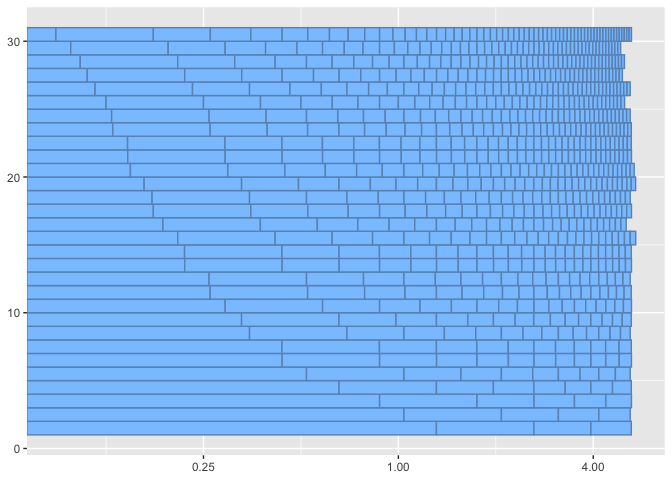
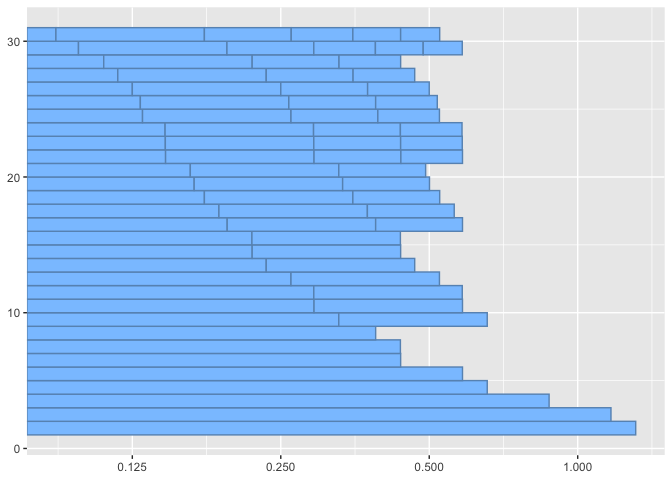
plots in period and wavelength look good

diff --git a/man/thoughts/Ratios_and_Inversions.md b/man/thoughts/Ratios_and_Inversions.md
@@ -3,13 +3,13 @@ Period and Wavelength Relative Periodicity
 
 # Chord Cycle Estimates
 
-\[1\] 60 64 67
+\[1\] 60 62 67
 
 ## Spatial
 
-| tol_l |    min_l | lcd_l |  chord_l |   chord_T |
-|------:|---------:|------:|---------:|----------:|
-|   0.1 | 0.087501 |    60 | 5.250061 | 0.2293354 |
+| tol_l |    min_l | lcd_l |   chord_l |   chord_T |
+|------:|---------:|------:|----------:|----------:|
+|  0.15 | 0.087501 |     6 | 0.5250061 | 0.0015306 |
 
 ![](Ratios_and_Inversions_files/figure-gfm/unnamed-chunk-4-1.png)<!-- -->
 
@@ -18,41 +18,41 @@ Period and Wavelength Relative Periodicity
 | index | num | den |     ratio |      tone | reference_tone |
 |------:|----:|----:|----------:|----------:|---------------:|
 |    30 |   1 |   1 |  1.000000 | 0.0875010 |       0.087501 |
-|    29 |   6 |   5 |  1.111111 | 0.0972234 |       0.087501 |
-|    28 |   5 |   4 |  1.189207 | 0.1040568 |       0.087501 |
-|    27 |   4 |   3 |  1.250000 | 0.1093763 |       0.087501 |
-|    26 |   4 |   3 |  1.321341 | 0.1156187 |       0.087501 |
-|    25 |   3 |   2 |  1.428571 | 0.1250015 |       0.087501 |
-|    24 |   3 |   2 |  1.486509 | 0.1300710 |       0.087501 |
-|    23 |   3 |   2 |  1.498307 | 0.1311034 |       0.087501 |
-|    22 |   5 |   3 |  1.664786 | 0.1456704 |       0.087501 |
-|    21 |   5 |   3 |  1.666667 | 0.1458350 |       0.087501 |
-|    20 |   5 |   3 |  1.698867 | 0.1486526 |       0.087501 |
-|    19 |   9 |   5 |  1.872884 | 0.1638792 |       0.087501 |
-|    18 |   2 |   1 |  1.982012 | 0.1734281 |       0.087501 |
-|    17 |   2 |   1 |  2.000000 | 0.1750020 |       0.087501 |
-|    16 |  11 |   5 |  2.140439 | 0.1872906 |       0.087501 |
-|    15 |   7 |   3 |  2.378414 | 0.2081137 |       0.087501 |
-|    14 |   5 |   2 |  2.497178 | 0.2185057 |       0.087501 |
-|    13 |   5 |   2 |  2.500000 | 0.2187525 |       0.087501 |
-|    12 |   3 |   1 |  2.973018 | 0.2601421 |       0.087501 |
-|    11 |   3 |   1 |  2.996614 | 0.2622068 |       0.087501 |
-|    10 |  10 |   3 |  3.333333 | 0.2916701 |       0.087501 |
+|    29 |   1 |   1 |  1.111111 | 0.0972234 |       0.087501 |
+|    28 |   4 |   3 |  1.250000 | 0.1093763 |       0.087501 |
+|    27 |   4 |   3 |  1.334840 | 0.1167998 |       0.087501 |
+|    26 |   3 |   2 |  1.428571 | 0.1250015 |       0.087501 |
+|    25 |   3 |   2 |  1.483155 | 0.1297776 |       0.087501 |
+|    24 |   3 |   2 |  1.498307 | 0.1311034 |       0.087501 |
+|    23 |   5 |   3 |  1.664786 | 0.1456704 |       0.087501 |
+|    22 |   5 |   3 |  1.666667 | 0.1458350 |       0.087501 |
+|    21 |   5 |   3 |  1.668550 | 0.1459998 |       0.087501 |
+|    20 |   2 |   1 |  1.872884 | 0.1638792 |       0.087501 |
+|    19 |   2 |   1 |  1.906914 | 0.1668569 |       0.087501 |
+|    18 |   2 |   1 |  2.000000 | 0.1750020 |       0.087501 |
+|    17 |   2 |   1 |  2.140439 | 0.1872906 |       0.087501 |
+|    16 |   7 |   3 |  2.224733 | 0.1946664 |       0.087501 |
+|    15 |   5 |   2 |  2.497178 | 0.2185057 |       0.087501 |
+|    14 |   5 |   2 |  2.500000 | 0.2187525 |       0.087501 |
+|    13 |   8 |   3 |  2.669680 | 0.2335997 |       0.087501 |
+|    12 |   3 |   1 |  2.996614 | 0.2622068 |       0.087501 |
+|    11 |  10 |   3 |  3.333333 | 0.2916701 |       0.087501 |
+|    10 |  10 |   3 |  3.337100 | 0.2919996 |       0.087501 |
 |     9 |  11 |   3 |  3.745768 | 0.3277585 |       0.087501 |
-|     8 |   4 |   1 |  3.964024 | 0.3468561 |       0.087501 |
+|     8 |   9 |   2 |  4.449466 | 0.3893328 |       0.087501 |
 |     7 |   5 |   1 |  4.994357 | 0.4370113 |       0.087501 |
 |     6 |   5 |   1 |  5.000000 | 0.4375051 |       0.087501 |
-|     5 |   6 |   1 |  5.946035 | 0.5202842 |       0.087501 |
+|     5 |  20 |   3 |  6.674199 | 0.5839992 |       0.087501 |
 |     4 |  15 |   2 |  7.491535 | 0.6555170 |       0.087501 |
 |     3 |  10 |   1 | 10.000000 | 0.8750102 |       0.087501 |
-|     2 |  59 |   5 | 11.892071 | 1.0405683 |       0.087501 |
+|     2 |  40 |   3 | 13.348398 | 1.1679985 |       0.087501 |
 |     1 |  15 |   1 | 14.983071 | 1.3110340 |       0.087501 |
 
 ## Temporal
 
 | tol_T |     min_T | lcd_T |   chord_T |
 |------:|----------:|------:|----------:|
-|   0.1 | 0.0002551 |    60 | 0.0153063 |
+|  0.15 | 0.0002551 |     6 | 0.0015306 |
 
 ![](Ratios_and_Inversions_files/figure-gfm/unnamed-chunk-7-1.png)<!-- -->
 
@@ -61,34 +61,34 @@ Period and Wavelength Relative Periodicity
 | index | num | den |     ratio |      tone | reference_tone |
 |------:|----:|----:|----------:|----------:|---------------:|
 |    30 |   1 |   1 |  1.000000 | 0.0002551 |      0.0002551 |
-|    29 |   6 |   5 |  1.111111 | 0.0002835 |      0.0002551 |
-|    28 |   5 |   4 |  1.189207 | 0.0003034 |      0.0002551 |
-|    27 |   4 |   3 |  1.250000 | 0.0003189 |      0.0002551 |
-|    26 |   4 |   3 |  1.321341 | 0.0003371 |      0.0002551 |
-|    25 |   3 |   2 |  1.428571 | 0.0003644 |      0.0002551 |
-|    24 |   3 |   2 |  1.486509 | 0.0003792 |      0.0002551 |
-|    23 |   3 |   2 |  1.498307 | 0.0003822 |      0.0002551 |
-|    22 |   5 |   3 |  1.664786 | 0.0004247 |      0.0002551 |
-|    21 |   5 |   3 |  1.666667 | 0.0004252 |      0.0002551 |
-|    20 |   5 |   3 |  1.698867 | 0.0004334 |      0.0002551 |
-|    19 |   9 |   5 |  1.872884 | 0.0004778 |      0.0002551 |
-|    18 |   2 |   1 |  1.982012 | 0.0005056 |      0.0002551 |
-|    17 |   2 |   1 |  2.000000 | 0.0005102 |      0.0002551 |
-|    16 |  11 |   5 |  2.140439 | 0.0005460 |      0.0002551 |
-|    15 |   7 |   3 |  2.378414 | 0.0006067 |      0.0002551 |
-|    14 |   5 |   2 |  2.497178 | 0.0006370 |      0.0002551 |
-|    13 |   5 |   2 |  2.500000 | 0.0006378 |      0.0002551 |
-|    12 |   3 |   1 |  2.973018 | 0.0007584 |      0.0002551 |
-|    11 |   3 |   1 |  2.996614 | 0.0007645 |      0.0002551 |
-|    10 |  10 |   3 |  3.333333 | 0.0008504 |      0.0002551 |
+|    29 |   1 |   1 |  1.111111 | 0.0002835 |      0.0002551 |
+|    28 |   4 |   3 |  1.250000 | 0.0003189 |      0.0002551 |
+|    27 |   4 |   3 |  1.334840 | 0.0003405 |      0.0002551 |
+|    26 |   3 |   2 |  1.428571 | 0.0003644 |      0.0002551 |
+|    25 |   3 |   2 |  1.483155 | 0.0003784 |      0.0002551 |
+|    24 |   3 |   2 |  1.498307 | 0.0003822 |      0.0002551 |
+|    23 |   5 |   3 |  1.664786 | 0.0004247 |      0.0002551 |
+|    22 |   5 |   3 |  1.666667 | 0.0004252 |      0.0002551 |
+|    21 |   5 |   3 |  1.668550 | 0.0004257 |      0.0002551 |
+|    20 |   2 |   1 |  1.872884 | 0.0004778 |      0.0002551 |
+|    19 |   2 |   1 |  1.906914 | 0.0004865 |      0.0002551 |
+|    18 |   2 |   1 |  2.000000 | 0.0005102 |      0.0002551 |
+|    17 |   2 |   1 |  2.140439 | 0.0005460 |      0.0002551 |
+|    16 |   7 |   3 |  2.224733 | 0.0005675 |      0.0002551 |
+|    15 |   5 |   2 |  2.497178 | 0.0006370 |      0.0002551 |
+|    14 |   5 |   2 |  2.500000 | 0.0006378 |      0.0002551 |
+|    13 |   8 |   3 |  2.669680 | 0.0006810 |      0.0002551 |
+|    12 |   3 |   1 |  2.996614 | 0.0007645 |      0.0002551 |
+|    11 |  10 |   3 |  3.333333 | 0.0008504 |      0.0002551 |
+|    10 |  10 |   3 |  3.337100 | 0.0008513 |      0.0002551 |
 |     9 |  11 |   3 |  3.745768 | 0.0009556 |      0.0002551 |
-|     8 |   4 |   1 |  3.964024 | 0.0010112 |      0.0002551 |
+|     8 |   9 |   2 |  4.449466 | 0.0011351 |      0.0002551 |
 |     7 |   5 |   1 |  4.994357 | 0.0012741 |      0.0002551 |
 |     6 |   5 |   1 |  5.000000 | 0.0012755 |      0.0002551 |
-|     5 |   6 |   1 |  5.946035 | 0.0015169 |      0.0002551 |
+|     5 |  20 |   3 |  6.674199 | 0.0017026 |      0.0002551 |
 |     4 |  15 |   2 |  7.491535 | 0.0019111 |      0.0002551 |
 |     3 |  10 |   1 | 10.000000 | 0.0025511 |      0.0002551 |
-|     2 |  59 |   5 | 11.892071 | 0.0030337 |      0.0002551 |
+|     2 |  40 |   3 | 13.348398 | 0.0034052 |      0.0002551 |
 |     1 |  15 |   1 | 14.983071 | 0.0038223 |      0.0002551 |
 
 ## References
